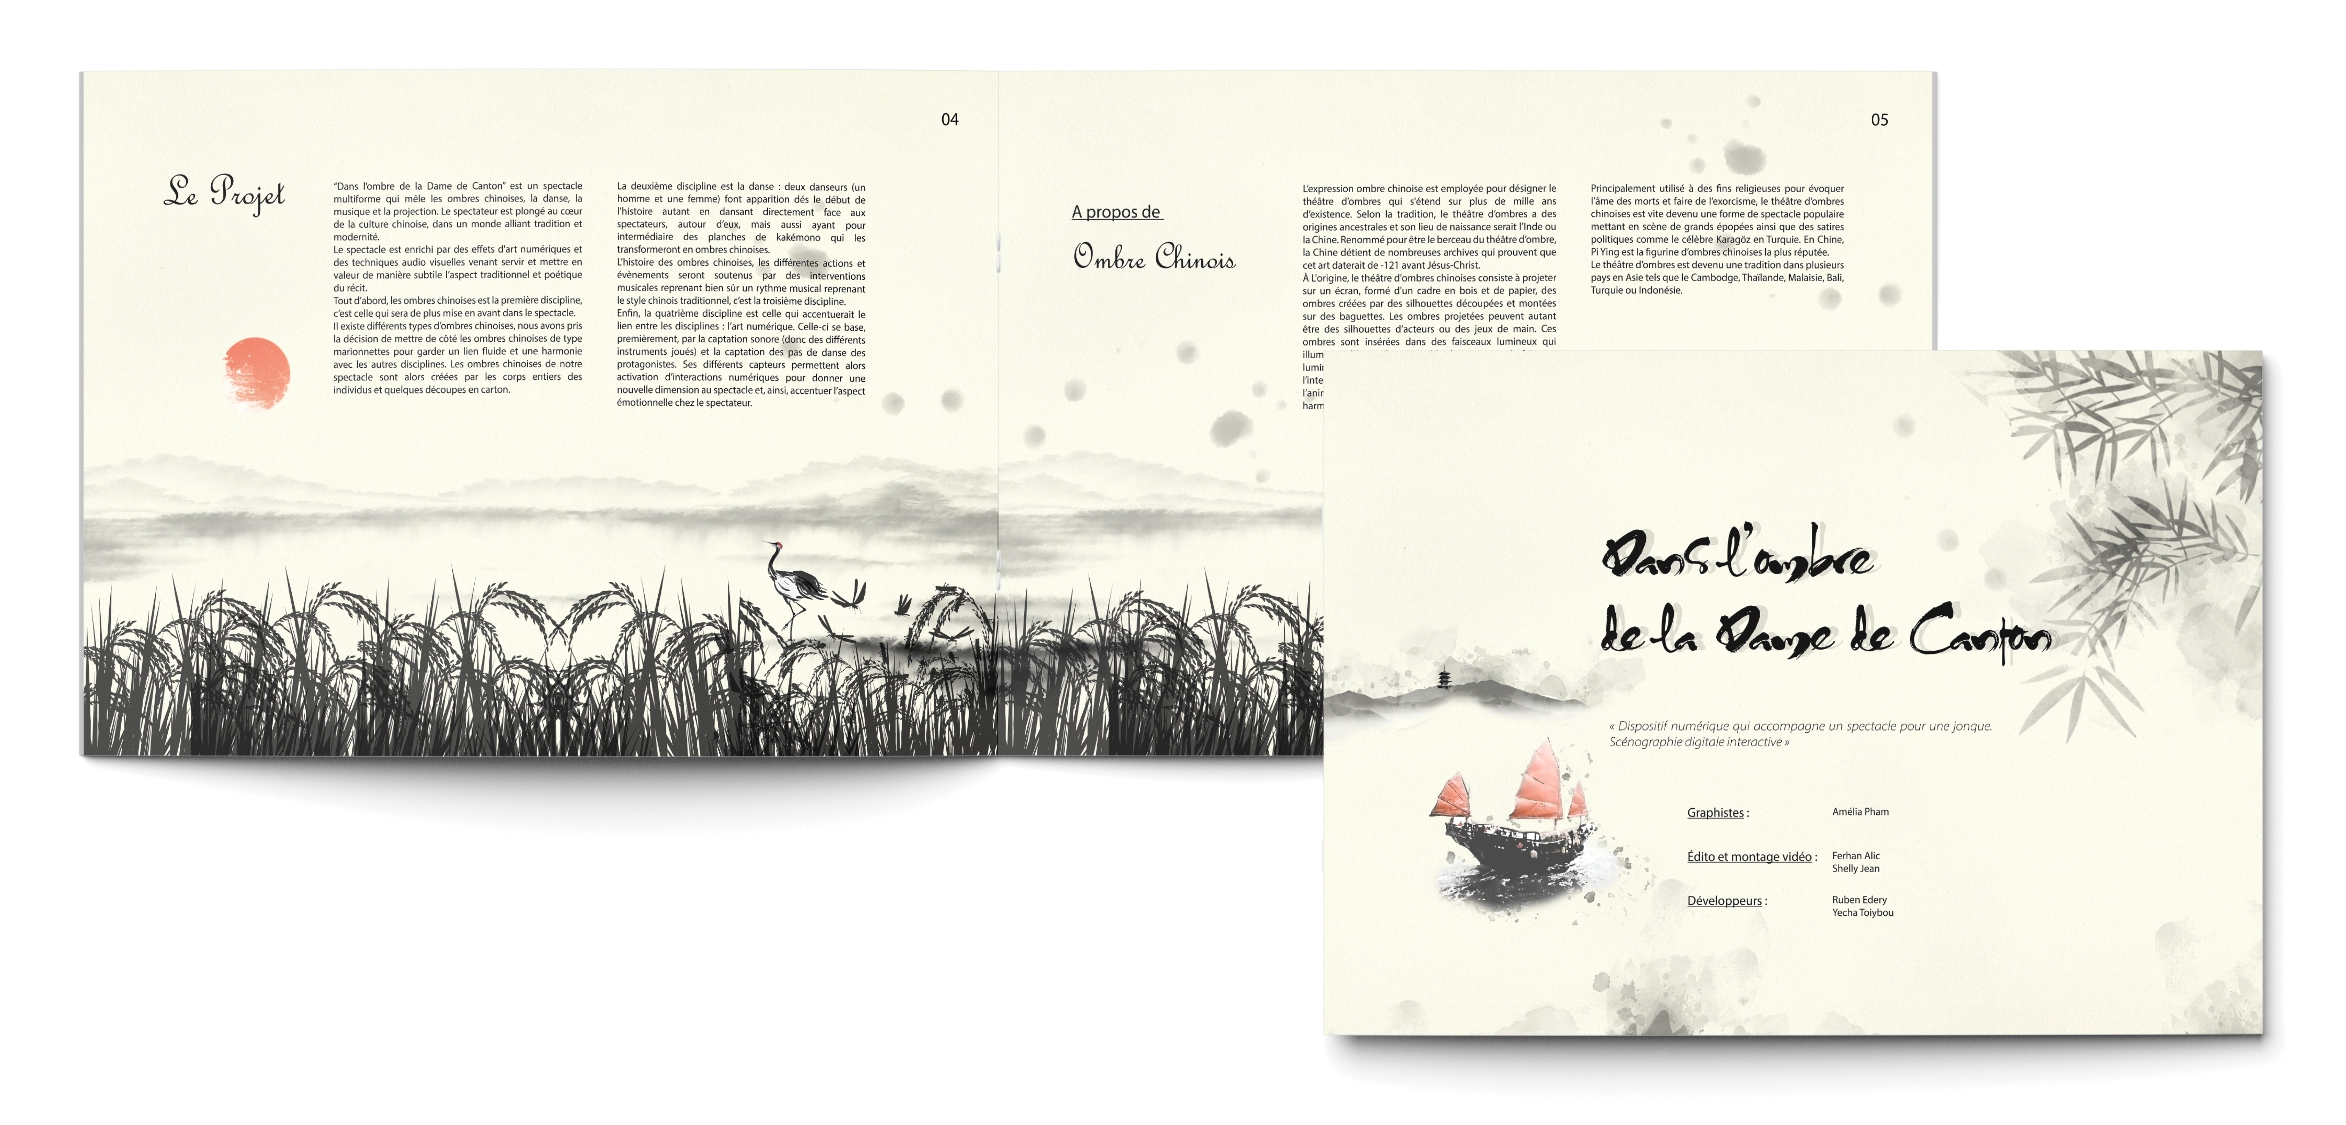
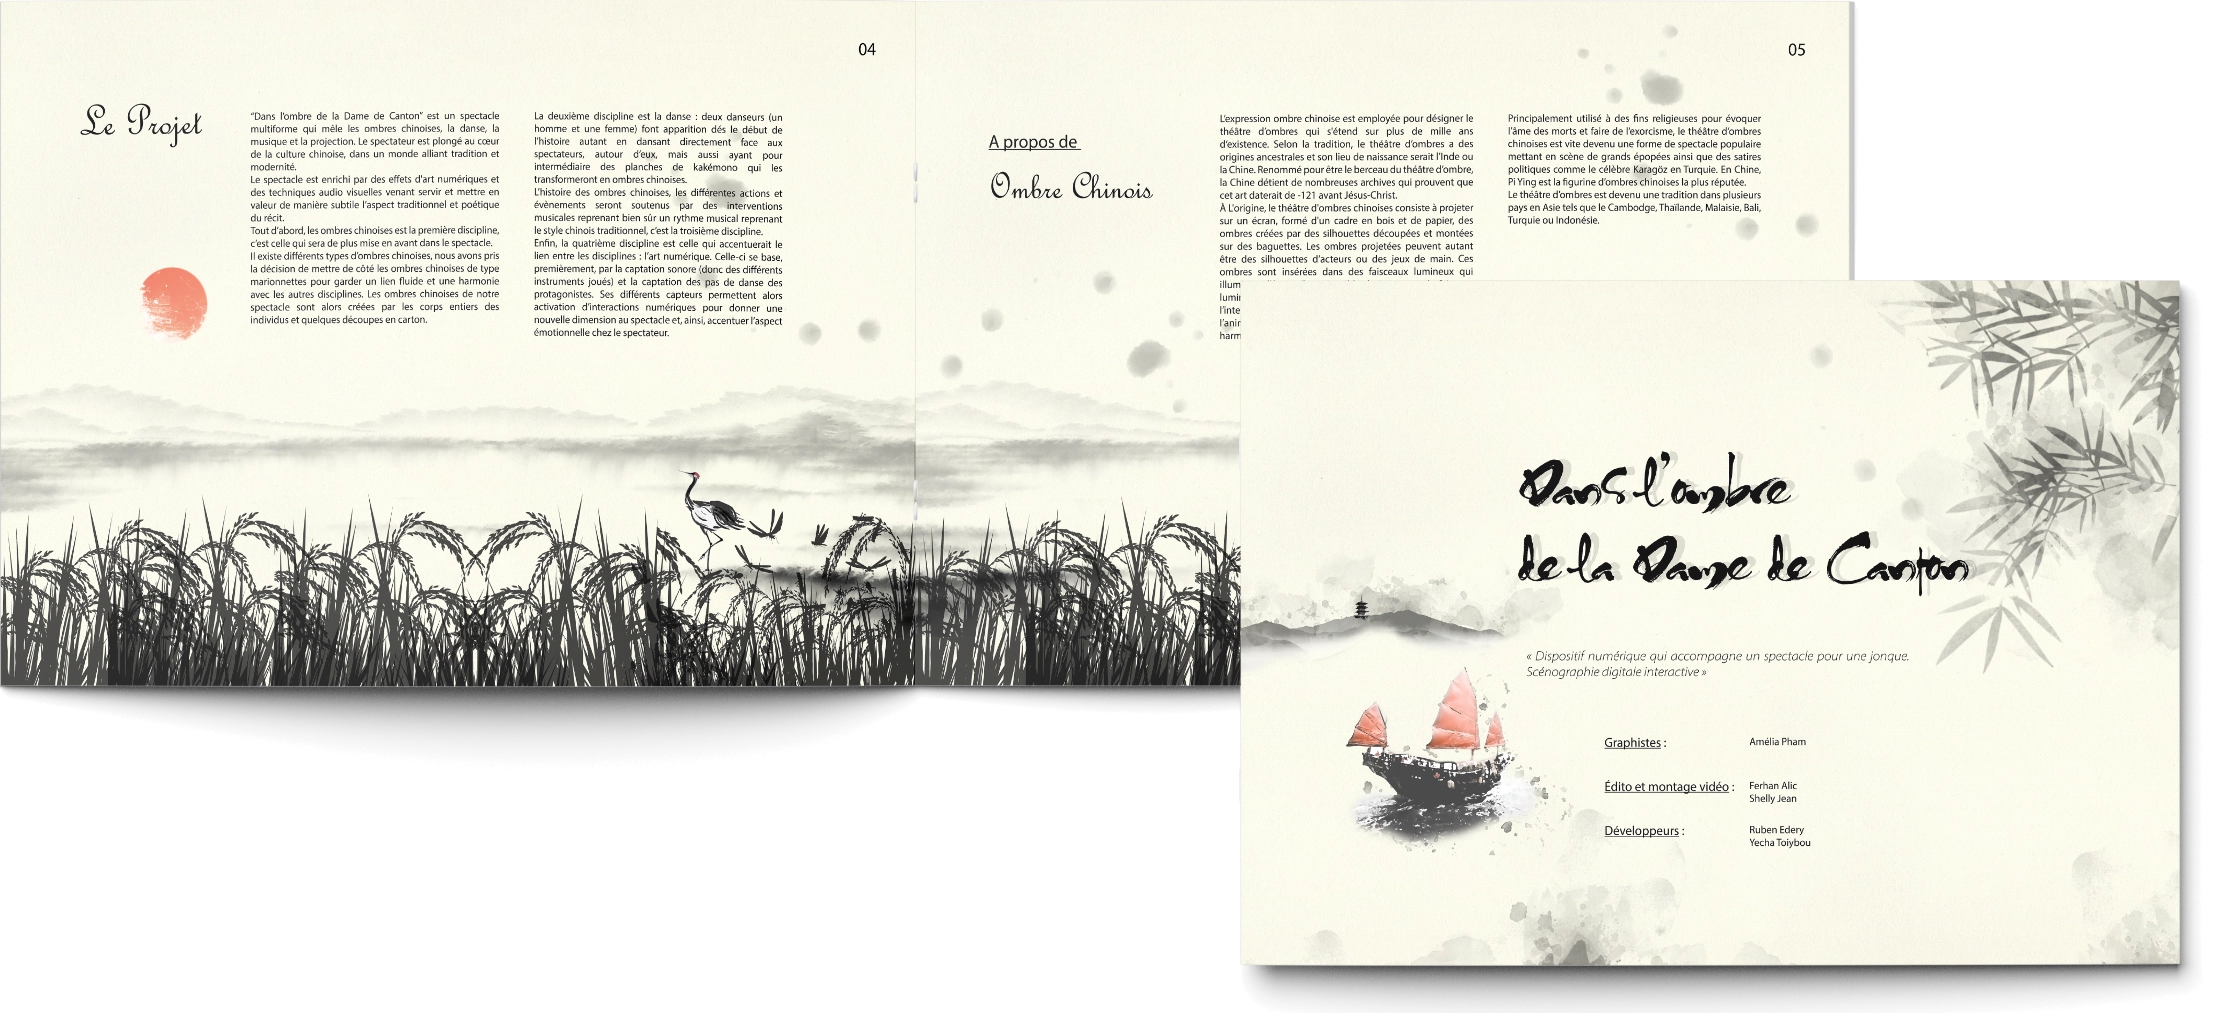
Update marketing page in project La dame de Canton

diff --git a/src/pages/projects/ProjectDetails/DameCanton/Page10.tsx b/src/pages/projects/ProjectDetails/DameCanton/Page10.tsx
@@ -1,6 +1,8 @@
 import { tss } from "tss";
 import { keyframes } from "tss-react";
 import { detailImagesByProjectId } from "pages/projects/projectsData";
+import Typography from "@mui/material/Typography";
+import { alpha } from "@mui/material/styles";
 
 type Props = {
     className?: string;
@@ -14,9 +16,14 @@ export function Page10(props: Props) {
         <div className={cx(classes.root, className)}>
             <img
                 src={detailImagesByProjectId.dame.dameBookUrl}
-                alt="book marketing"
+                alt="marketing book"
                 className={cx(classes.image, classes.image)}
             />
+            <div className={classes.textContainer}>
+                <Typography variant="body1" className={classes.text}>
+                    Marketing book
+                </Typography>
+            </div>
         </div>
     );
 }
@@ -34,18 +41,45 @@ const animate = keyframes({
     }
 });
 
-const useStyles = tss.withName({ name: "DamePage10" }).create(() => {
+const useStyles = tss.withName({ name: "DamePage10" }).create(({ theme }) => {
     return {
         root: {
-            display: "flex"
+            display: "grid",
+            gridTemplateColumns: "1fr 1fr",
+            gridTemplateRows: "1fr 1fr 1fr",
         },
         image: {
+            gridColumn: "1/3",
+            gridRow: "1/4",
             width: "100%",
-            height: "100%",
-            maxHeight: "600px",
             objectFit: "contain",
             opacity: 0,
             animation: `${animate} 0.5s ease-in-out 0.2s 1 forwards`
+        },
+        textContainer: {
+            height: "100%",
+            gridColumn: "1/2",
+            gridRow: "3/4",
+            display: "grid",
+            gridTemplateRows: "1fr 1fr 1fr 1fr",
+            alignItems: "center"
+        },
+        text: {
+            gridRow: "3",
+            position: "relative",
+            opacity: 0,
+            animation: `${animate} 0.5s ease-in-out 0.4s 1 forwards`,
+
+            "&::after": {
+                content: "''",
+                position: "absolute",
+                bottom: "0%",
+                left: "0%",
+                width: "100%",
+                height: theme.spacing(0.1),
+                backgroundColor: `${alpha(theme.palette.text.primary, 0.2)}`,
+                transition: "all 0.5s ease"
+            }
         }
     };
 });

diff --git a/src/pages/projects/ProjectDetails/DameCanton/Page2.tsx b/src/pages/projects/ProjectDetails/DameCanton/Page2.tsx
@@ -1,6 +1,5 @@
 import { tss } from "tss";
 import { keyframes } from "tss-react";
-import { detailImagesByProjectId } from "pages/projects/projectsData";
 import Typography from "@mui/material/Typography";
 
 type Props = {
